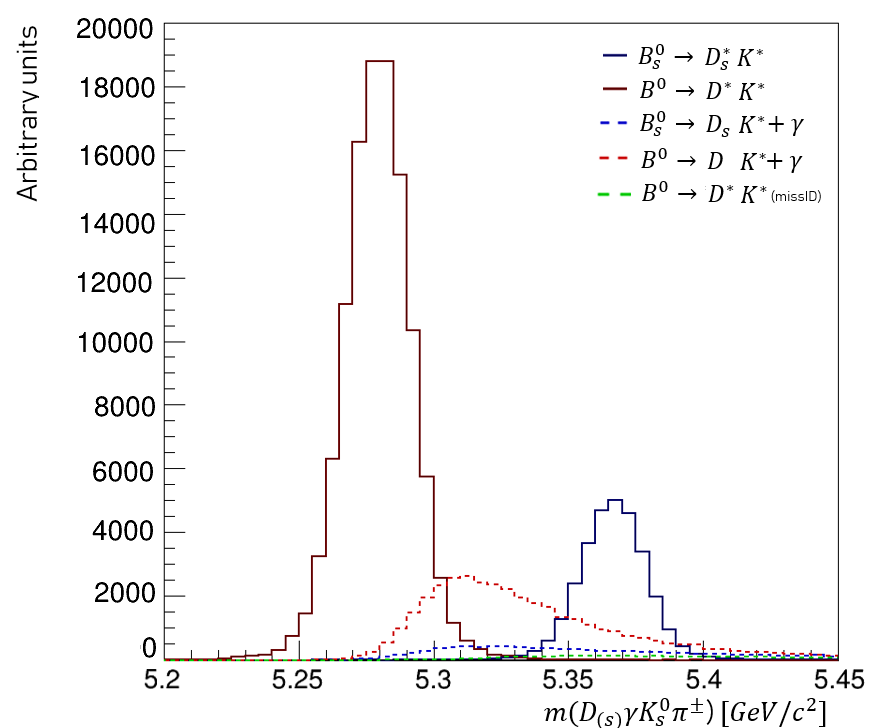
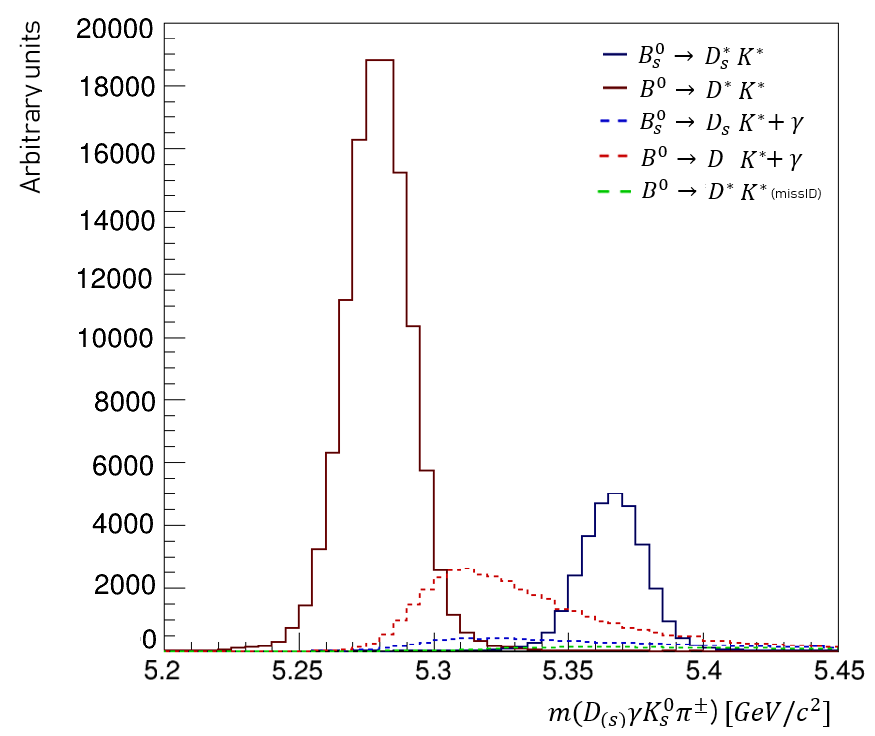
v2 with corrections

diff --git a/main.tex b/main.tex
@@ -32,46 +32,43 @@ The Standard Model (SM) description of \CP violation can be tested by overconstr
 \PACS{13.20.He, 14.40Nd} 
 
 \section{Introduction}
-The CKM angle \g is defined as $\gamma \equiv \arg(-V_{ud}V_{ub}^{*}/V_{cd}V_{cb}^{*})$.  The CKM matrix elements $V_{ij}$ specify the strength of week transition between quarks $i$ and $j$. The CKM angle \g is the least precise measured parameter of the Unitary Triangle. It can be determined experimentally by exploiting the interference between favored \textit{b} \to \textit{c} and suppressed \textit{b} \to \textit{u} transition amplitudes in tree-level decays of \decay{B}{D K}.
- Any significant discrepancies between direct measurement in tree-level decay (unaffected by processes which could be related to the effects of Physics Beyond the Standard Model) and loop dominated processes allow to probe unexplored field of science.  
+The CKM angle \g is defined as $\gamma \equiv \arg(-V_{ud}V_{ub}^{*}/V_{cd}V_{cb}^{*})$.  The CKM matrix elements $V_{ij}$ specify the strength of week transition between quarks $i$ and $j$. It is the least precise measured parameter of the Unitary Triangle and it can be determined experimentally by exploiting the interference between favored \textit{b} \to \textit{c} and suppressed \textit{b} \to \textit{u} transition amplitudes in tree-level decays of \decay{B}{D K}. Any significant discrepancies between direct measurement in tree-level decay (unaffected by processes which could be related to the effects of Physics Beyond the Standard Model) and loop dominated processes allow probing unexplored field of science.  
 
-Measurements from the LHCb experiment yield $\gamma=(74.0^{+5.0}_{-5.8})^\circ$ \cite{gamma_B2DK}, \cite{gamma_comb}, which is the most precise determination of \g from a single experiment\footnote{Worthy of notice is that anticipated precision of the CKM angle \g for Run III and IV (years 2021-2023) is 0.4$^\circ$\cite{lhcb_phys_case}}. The precision of the measurement is dominated by the result from the decay $B^+\rightarrow D K^+$. Very recent analysis of $B^0\rightarrow D K^{*0}$ with $D$ mesons decaying to two and four particles final state included data from the Run I and Run II periods collected at centre-of-mass energies $\sqrt s$ of 7, 8 and 13 TeV in the years 2011-2016 \cite{B2Dkstar0}. The result is in agreement with the previous LHCb measurements and showed the feasibility of the study of new decays with as much as six particles in the final state for the evaluation the CKM angle \g.  
+Measurements from the LHCb experiment yield $\gamma=(74.0^{+5.0}_{-5.8})^\circ$ \cite{gamma_B2DK}, \cite{gamma_comb}, which is the most precise determination of \g from a single experiment\footnote{Worthy of notice is that anticipated precision of the CKM angle \g for Run III and IV (years 2021-2023) is 0.4$^\circ$\cite{lhcb_phys_case}}. The precision of the measurement is dominated by the result from the decay $B^+\rightarrow D K^+$. The very recent analysis of $B^0\rightarrow D K^{*0}$ with $D$ mesons decaying to two and four particles final state included data from the Run I and Run II periods collected at centre-of-mass energies $\sqrt s$ of 7, 8 and 13 TeV in the years 2011-2016 \cite{B2Dkstar0}. The result is in agreement with the previous LHCb measurements and showed the feasibility of the study of new decays with as much as six particles in the final state for the evaluation of the CKM angle \g.  
 
-Another useful and promising set of processes is $B^0_s$ decays to vector mesons: $B^0_s \rightarrow D_s^* K$,  $B^0_s \rightarrow D_s K^*$ and $B^0_s \rightarrow D_s^* K^*$. The last two have not been observed yet and the searches for appropriate candidates in the whole data from Run I and Run II are ongoing. Due to the complicated topology, this analysis is preceded by the study of simulated data sample to establish a various sources of background that may influence the measurement.
+Another useful and promising set of processes is $B^0_s$ decays to vector mesons: $B^0_s \rightarrow D_s^* K$,  $B^0_s \rightarrow D_s K^*$ and $B^0_s \rightarrow D_s^* K^*$. The last two have not been observed yet and the searches for appropriate candidates in the whole data from Run I and Run II are ongoing. Due to the complicated topology, this analysis is preceded by the study of a simulated data sample to establish various sources of background that may influence the measurement.
 
 
 \section{Preliminary studies of background in $B^0_s \rightarrow D_s^* K^*$ decay}
 
-Decay $B^0_s \rightarrow D_s^* K^*$, where $D^*_s\rightarrow D_s \gamma$ and $K^*\rightarrow K^0_s \pi$, proceeds through two vector resonances which are reconstructed by six charged particles (including $K^0$) and \g. 
+Decay $B^0_s \rightarrow D_s^* K^*$, where $D^*_s\rightarrow D_s \gamma$ and $K^*\rightarrow K^0 \pi$, proceeds through two vector resonances which are reconstructed by six charged particles (including $K^0$) and \g. 
 
- One can expect three type of background components: partially reconstructed decays, where one particle in similar decay is missing and it may lead to the same final state, enhancement in the signal caused by the wrong identification of one or more particles, and combinatorial background - random combination of the particles from the final states. 
+ One can expect three types of background components: partially reconstructed decays, where one particle in similar decay is missing and it may lead to the same final state, enhancement in the signal caused by the wrong identification of one or more particles, and combinatorial background - random combination of the particles from the final states. 
  The latter can be greatly removed by selection criteria and multivariate analysis. Analysis of the first two background contributions is done using data simulated with the Monte Carlo methods (MC).
 
-The production of MC data is run by the central software of the LHCb experiment. The simulation that includes the full event reconstruction takes a lot of CPU time. The simplified simulation, should be therefore used beforehand to study the possible background contributions to the signal events.
+Usually, the production of MC data is run by the central software of the LHCb experiment. The simulation that includes the full event reconstruction takes a lot of CPU time. The simplified simulation should be therefore used beforehand to study the possible background contributions to the signal events.
 
 The RapidSim package \cite{rapidsim} uses a simplified models for the very fast study of kinematics of potential background decays. It allows for the estimation of the possible physical contributions. However, it cannot be used in calculation of efficiencies due to lack of track reconstruction of decay chain. 
 
-The decay $B^0_s \rightarrow D_s^* K^*$ with $D_s^*\rightarrow D_s \gamma$ and $K^*\rightarrow K^0 \pi$ is characterised by two resonance states: $D_s^*$ and $K^*$. It is therefore hardly possible to find  decays which would be partially reconstructed and result in such a complex final state. The fast simulation of decays with the $\pi^0$ meson and without one \g reconstructed like: $B^0 \rightarrow D^{*+}(2010) K^{*-}$, $D^{*+}(2010)\rightarrow D^+ \pi^0$ showed events well below the $B^0_s$ mass.
-
-Beside the presence of two resonances, one can expect also the non-resonant contributions of the type: $B^0_s \rightarrow D_s \gamma  K^0 \pi$,  which can pass through the selection criteria.  Fig. \ref{Fig:F2} shows the comparison of mass distributions $K^0 \pi$ and $D_s \gamma$ https://www.overleaf.com/project/5d549586dcebc058d983b7c3candidates for resonant and non-resonant mode. Although the requirement that one should select events from the region that is compatible with the signal events (red lines in Fig. \ref{Fig:F2}) will remove most of this background, the non-resonant contribution must be included in the model which describes the reconstructed signal events.
+The decay $B^0_s \rightarrow D_s^* K^*$ with $D_s^*\rightarrow D_s \gamma$ and $K^*\rightarrow K^0 \pi$ is characterised by two resonance states: $D_s^*$ and $K^*$. It is therefore hardly possible to find  decays which would be partially reconstructed and result in such a complex final state. The fast simulation of decays with the $\pi^0$ meson and without one \g reconstructed like: $B^0 \rightarrow D^{*+}(2010) K^{*-}$, $D^{*+}(2010)\rightarrow D^+ \pi^0$ showed events well below the $B^0_s$ mass. Besides the presence of two resonances, one can expect also the non-resonant contributions of the type: $B^0_s \rightarrow D_s \gamma  K^0 \pi$,  which can pass through the selection criteria.  Fig. \ref{Fig:F2} shows the comparison of mass distributions $K^0 \pi$ and $D_s \gamma$ candidates for resonant and non-resonant mode. Although the requirement that one should select events from the region that is compatible with the signal events (red lines in Fig. \ref{Fig:F2}) will remove most of this background, the non-resonant contribution must be included in the model which describes the reconstructed signal events.
 \begin{figure}[htbp]
 \centering
 \begin{minipage}{0.5\textwidth}
   \centering
-\includegraphics[width=6.5 cm]{Kstar.png}
+\includegraphics[width=6.4 cm]{Kstar.png}
 \end{minipage}%
 \begin{minipage}{0.5\textwidth}
   \centering
-\includegraphics[width= 6.5 cm]{Dstar.png}
+\includegraphics[width= 6.4 cm]{Dstar.png}
 \end{minipage}%
 \caption{Mass  of $K^0 \pi$ system (left) and $D_s \g$ (right).
-The red line shows the decays with resonances $K^*$ and $D_s^*$ respectively.} 
+The red line shows the decays with resonances $K^*$ and $D_s^*$ respectively (Pseudoexperiments produced with RapidSim \cite{rapidsim})} 
 \label{Fig:F2}
 \end{figure}
 
-The other possible source of background is misidentification of one pion as kaon in the final state of $D$ meson decay. Such a $D$ meson can be mistaken as $D_s$ meson which mainly decays to $K K \pi$ final state. In Fig. \ref{Fig:F3} (left-hand side) the distribution of the mass of $D \rightarrow K \pi \pi$ and the mass in case when 5\% of pions are identified as kaons are shown. Therefore, one need to exclude, in the selection of the real data, events that are compatible with $D$ meson decay when the identification is changed from $\pi$  to $K$.  
+The other possible source of background is a misidentification of one pion as kaon in the final state of $D$ meson decay. Such a $D$ meson can be mistaken as $D_s$ meson which mainly decays to $K K \pi$ final state. In Fig. \ref{Fig:F3} (left-hand side) the distribution of the mass of $D \rightarrow K \pi \pi$ and the mass in the case when 5\% of pions are identified as kaons are shown. Therefore, one needs to exclude, in the selection of the real data, events that are compatible with $D$ meson decay when the identification is changed from $\pi$  to $K$.  
 
-Three decays: $B^0 \rightarrow D^* K^*$, $B^0 \rightarrow D^*_s K^*$ and the signal decay $B_s^0\rightarrow D^*_s K^*$ are expected on the mass distribution of the $D_{(s)} \gamma K^0_s \pi$ system. It is also possible that states: $D_s K^0_s \pi$, $D K^0_s \pi$, $D 3\pi$, $D_s 3\pi$ and  $D^*(2010)K^0_s \pi$ with $D^*(2010)\rightarrow D^+ \pi$, combined with a random, soft photon could mimic the signal decay $ B^0_s\rightarrow D^*_s K^*$. The size of possible contributions depends on the probability of the $B^0$ and $B^0_s$ production and branching fraction of the respective decays. Position of these background processes on the $D_s \g K^0 \pi$ system mass is depicted in Fig. \ref{Fig:F3} (right-hand side). It is assumed that random \g is added to each event and distributions are normalized to $B^0\rightarrow D^*K^*$ mode, which is (3.3 $\pm$ 0.7)$\cdot$10$^{-4}$ \cite{pdg_group}. 
+Three decays: $B^0 \rightarrow D^* K^*$, $B^0 \rightarrow D^*_s K^*$ and the signal decay $B_s^0\rightarrow D^*_s K^*$ are expected on the mass distribution of the $D_{(s)} \gamma K^0 \pi$ system. It is also possible that states: $D_s K^0 \pi$, $D K^0 \pi$, $D 3\pi$, $D_s 3\pi$ and  $D^*(2010)K^0 \pi$ with $D^*(2010)\rightarrow D^+ \pi$, combined with a random, soft photon could mimic the signal decay $ B^0_s\rightarrow D^*_s K^*$. The size of possible contributions depends on the probability of the $B^0$ and $B^0_s$ production and branching fraction of the respective decays. Position of these background processes on the $D_s \g K^0 \pi$ system mass is depicted in Fig. \ref{Fig:F3} (right-hand side). It is assumed that random \g is added to each event and distributions are normalized to $B^0\rightarrow D^*K^*$ mode, which is (3.3 $\pm$ 0.7)$\cdot$10$^{-4}$ \cite{pdg_group}. 
 
 Background studies showed that mass of the combination of  $B^0 \rightarrow DK^*$ decay with a random, soft photon is in the region of  $B_s^0 \rightarrow D^*_s K^*$ mass. It means that such events can be mistaken as signal decay. Process $B_s^0\rightarrow D_s K^*$ decay with random photon is visible above the $B^0_s$ nominal mass.
 The contribution of the decay $B^0 \rightarrow D_sK^*$ is small
@@ -86,14 +83,14 @@ due to the lower branching fraction in comparison with the signal mode. This ana
   \centering
 \includegraphics[width= 6.7 cm]{B_new.png}
 \end{minipage}%
-\caption{Mass distribution of $D \to K \pi \pi$ candidates (red line), $D_s \to K K \pi$ candidates (blue line) and $K\pi\pi$ system where one pion is misidentified as kaon (red, dash line ) - left plot.
-Mass distribution of $D_s \gamma K_s \pi$ candidates for signal modes and potential background processes. The dashed histograms show decays combined with the soft, random photon (right).}
+\caption{Mass distribution of $D \to K \pi \pi$ candidates (red line), $D_s \to K K \pi$ candidates (blue line) and $K\pi\pi$ system where one pion is misidentified as kaon (red, dash line) - left plot.
+Mass distribution of $D_s \gamma K^0 \pi$ candidates for signal modes and potential background processes, the dashed histograms show decays combined with the soft, random photon - right plot (Pseudoexperiments produced with RapidSim \cite{rapidsim}).}
 \label{Fig:F3}
 \end{figure}
 
 \section{Acknowledges}
 This research was supported in part by the National Research Centre, Poland
-(NCN), grant No. XXXXXX and by the Faculty of Physics and Applied Computer Science AGH University
+(NCN), grant No. MNiSW-DIR/WK/2017/04 and by the Faculty of Physics and Applied Computer Science AGH University
 
 \begin{thebibliography}{3}
 \bibitem{lhcb_phys_case}
